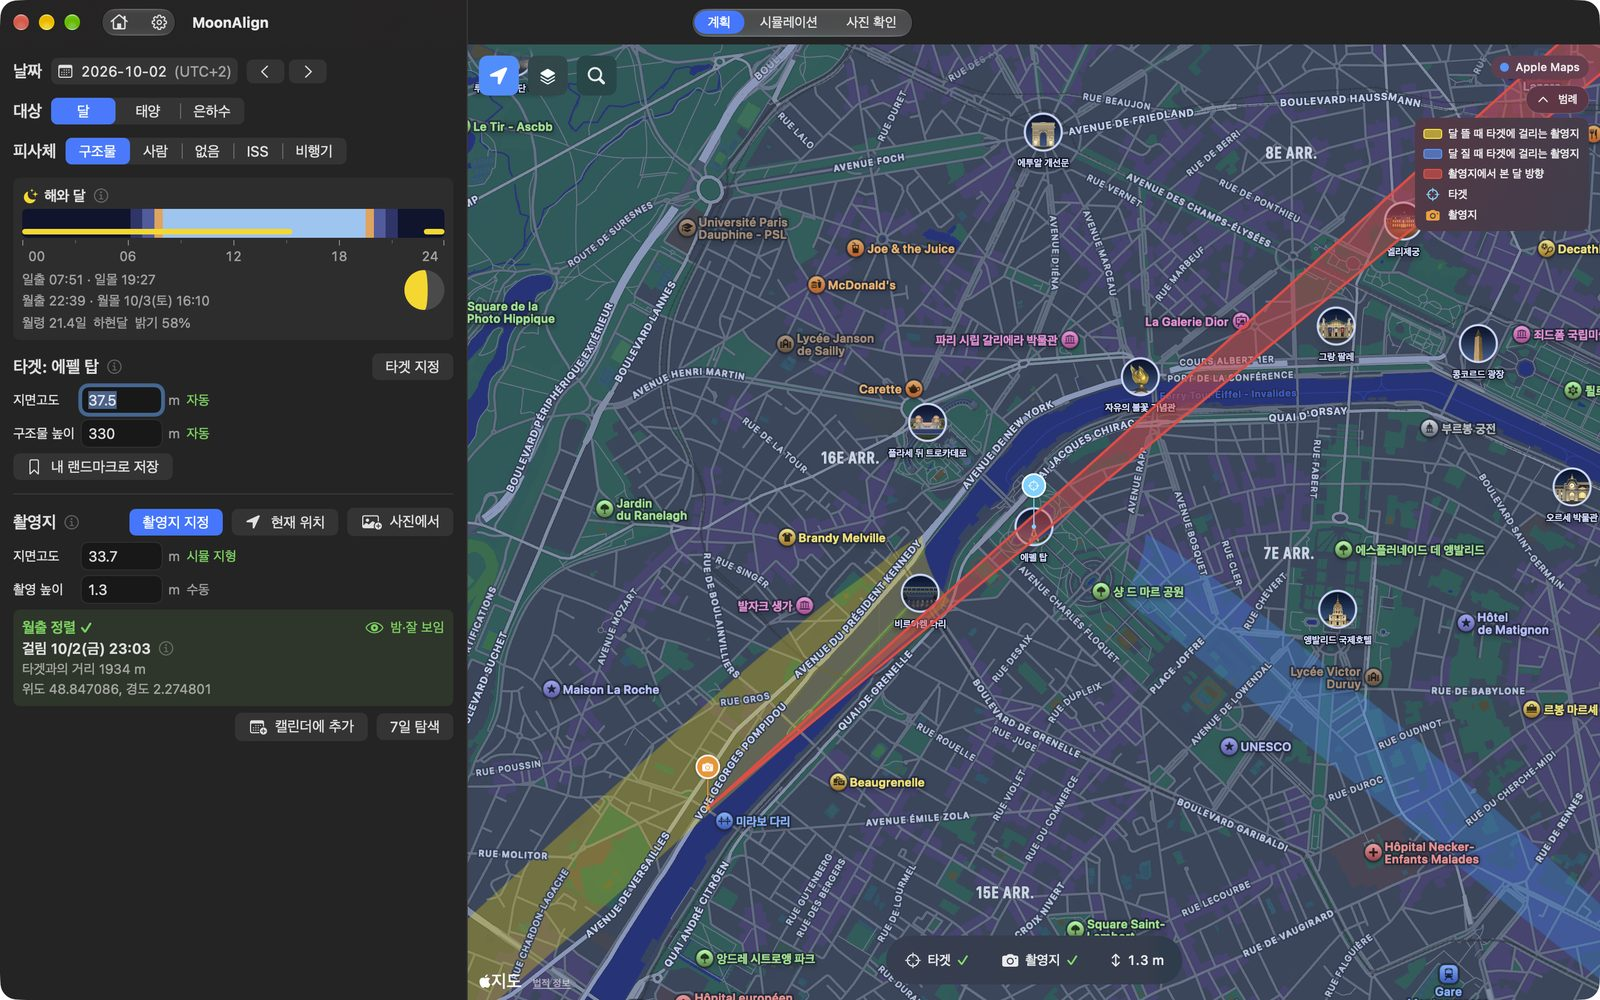
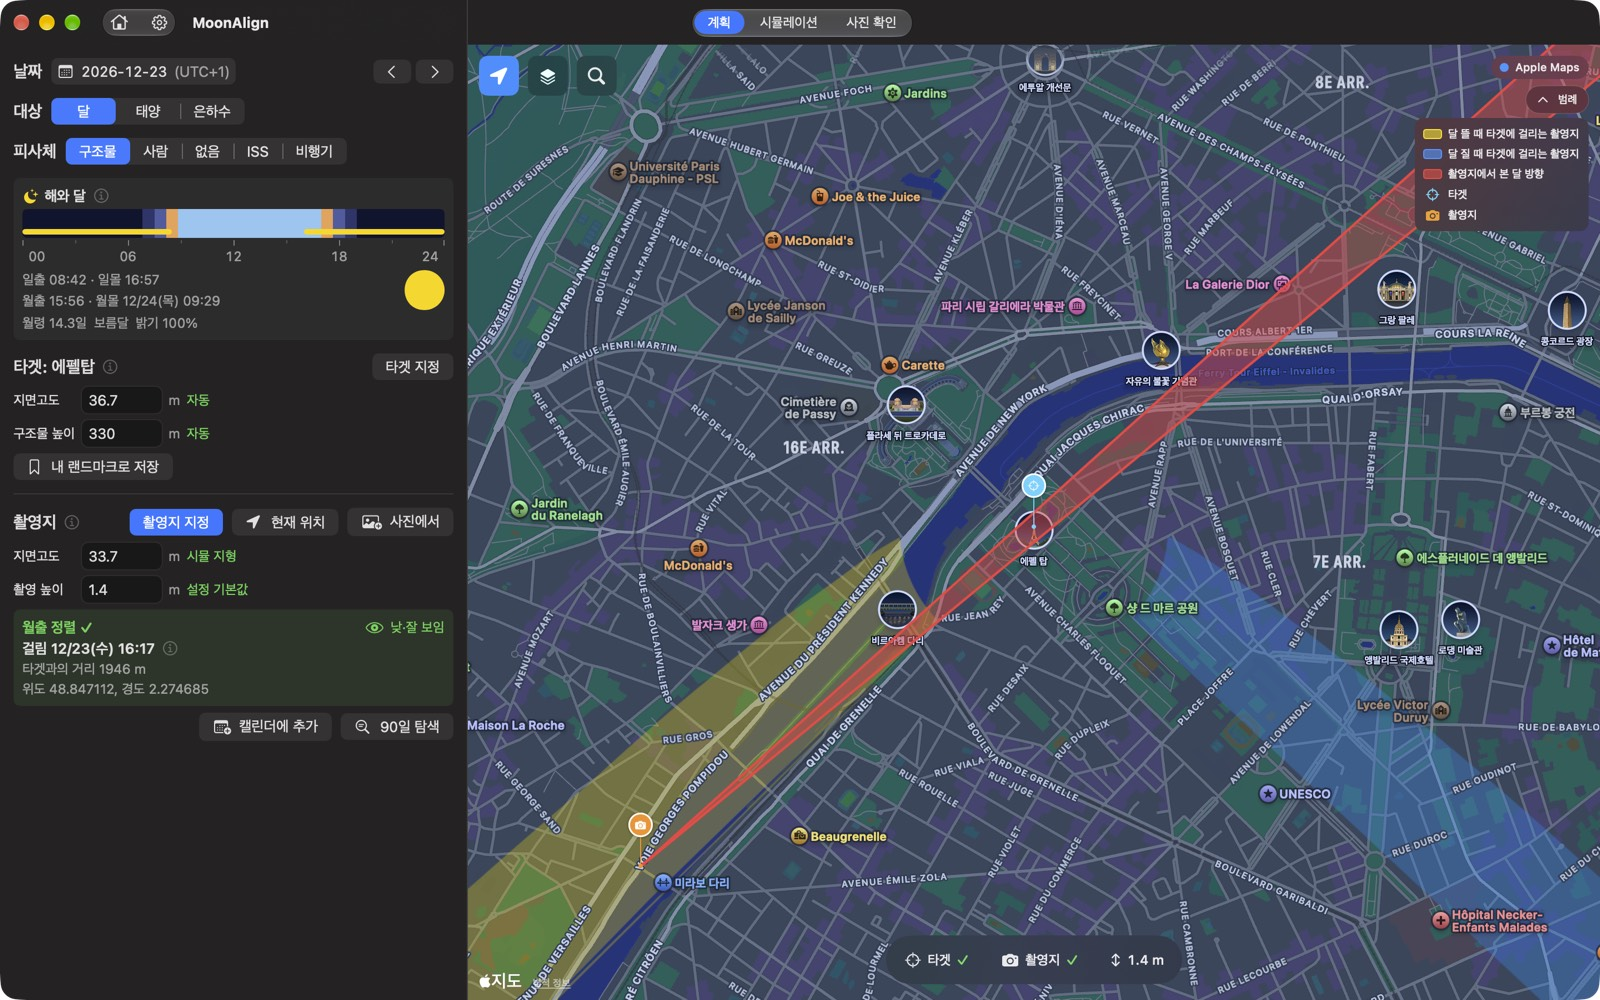
랜딩 생성물 갱신 — MoonAlign 1e81e3f

diff --git a/ko/guide/index.html b/ko/guide/index.html
@@ -227,11 +227,11 @@
 
 <section>
 <h2 id="structure">구조물 — 타워와 달이 겹치는 구도</h2>
-<figure class="shot"><img src="/img/guide/band-mac-ko.jpg" alt="Mac 계획 화면" loading="lazy"><figcaption>Mac 계획 화면 — 노란 띠(달이 뜰 때)와 파란 띠(질 때), 촬영지에서 본 달 방향(빨강). 왼쪽 촬영지 카드에 정렬 결과가 나옵니다. 예: 파리 에펠탑, 2026-10-02 월출. 스크린샷에는 데모용 ‘7일 탐색’이 표시되어 있으나, 실제 앱에서는 ‘90일 탐색’을 사용합니다.</figcaption></figure>
+<figure class="shot"><img src="/img/guide/band-mac-ko.jpg" alt="Mac 계획 화면" loading="lazy"><figcaption>Mac 계획 화면 — 노란 띠(달이 뜰 때)와 파란 띠(질 때), 촬영지에서 본 달 방향(빨강). 왼쪽 촬영지 카드에 정렬 결과가 나옵니다. 예: 파리 에펠탑, 2026-12-23 월출.</figcaption></figure>
 <p>구조물 촬영의 기본 절차입니다. 촬영 대상을 지정하고, 촬영 위치와 시각을 찾은 뒤 시뮬레이션으로 구도를 확인합니다.</p>
 <ol>
 <li><span class="ui">대상</span> <span class="ui">달</span>, <span class="ui">피사체</span> <span class="ui">구조물</span>을 고릅니다.</li>
-<li>타겟(예: 남산타워)을 지정합니다. 높이가 입력되면 지도에 <strong>띠</strong>가 그려집니다.</li>
+<li>타겟(예: 에펠탑)을 지정합니다. 높이가 입력되면 지도에 <strong>띠</strong>가 그려집니다.</li>
 <li>띠 위에 촬영지를 지정합니다. 노란 띠는 <em>달이 뜰 때</em>, 파란 띠는 <em>질 때</em> 달과 타겟이 겹치는 촬영 위치입니다.</li>
 <li>촬영지 카드에서 <span class="ui">달 정렬 ✓</span> 표시와 <span class="ui">걸림</span> 시각, 참고 창(정렬 전후의 시간 범위), 타겟까지의 거리를 확인합니다. 해당 날짜에 정렬되지 않으면 <span class="ui">정렬 없음</span>이 표시됩니다.</li>
 <li>다른 날짜를 찾으려면 <span class="ui">90일 탐색</span>을 누릅니다. <span class="ui">정렬 가능 날짜</span> 목록에서 날짜·시각·월령·가시성(예: <span class="ui">밤·잘 보임</span>, <span class="ui">지형에 가림</span>)을 보고 <span class="ui">선택</span>을 눌러 계획 날짜를 변경합니다.</li>

diff --git a/guide/index.html b/guide/index.html
@@ -225,7 +225,7 @@
 
 <section>
 <h2 id="structure">Structure — the Moon behind a tower</h2>
-<figure class="shot"><img src="/img/guide/band-mac-en.jpg" alt="The planning screen on the Mac" loading="lazy"><figcaption>The planning screen on the Mac — the yellow band (moonrise) and blue band (moonset), and the Moon’s direction from the shooting spot (red). The shooting spot card on the left shows the result. Example: the Eiffel Tower, moonrise on 2026-10-02. “Search 7 days” in the picture is the demo screen; the app searches 90 days.</figcaption></figure>
+<figure class="shot"><img src="/img/guide/band-mac-en.jpg" alt="The planning screen on the Mac" loading="lazy"><figcaption>The planning screen on the Mac — the yellow band (moonrise) and blue band (moonset), and the Moon’s direction from the shooting spot (red). The shooting spot card on the left shows the result. Example: the Eiffel Tower, moonrise on 2026-12-23.</figcaption></figure>
 <p>This is MoonAlign's core flow; the other modes follow the same grammar.</p>
 <ol>
 <li>Choose <span class="ui">Body</span> <span class="ui">Moon</span> and <span class="ui">Subject</span> <span class="ui">Structure</span>.</li>

diff --git a/ja/guide/index.html b/ja/guide/index.html
@@ -225,7 +225,7 @@
 
 <section>
 <h2 id="structure">構造物 — タワーの後ろに月を重ねる</h2>
-<figure class="shot"><img src="/img/guide/band-mac-ja.jpg" alt="Macの計画画面" loading="lazy"><figcaption>Macの計画画面 — 黄色い帯(月の出)と青い帯(月の入り)、撮影地から見た月の方向(赤)。左の撮影地カードに結果が出ます。例:パリ・エッフェル塔、2026-10-02の月の出。図の「7日間検索」はデモ画面の表示で、実際のアプリは90日です。</figcaption></figure>
+<figure class="shot"><img src="/img/guide/band-mac-ja.jpg" alt="Macの計画画面" loading="lazy"><figcaption>Macの計画画面 — 黄色い帯(月の出)と青い帯(月の入り)、撮影地から見た月の方向(赤)。左の撮影地カードに結果が出ます。例:パリ・エッフェル塔、2026-12-23の月の出。</figcaption></figure>
 <p>MoonAlignの基本の流れです。ほかのモードも同じ文法に従います。</p>
 <ol>
 <li><span class="ui">対象</span>で<span class="ui">月</span>、<span class="ui">被写体</span>で<span class="ui">構造物</span>を選びます。</li>
